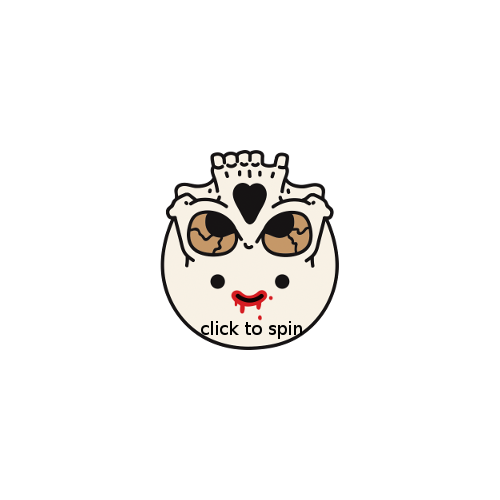
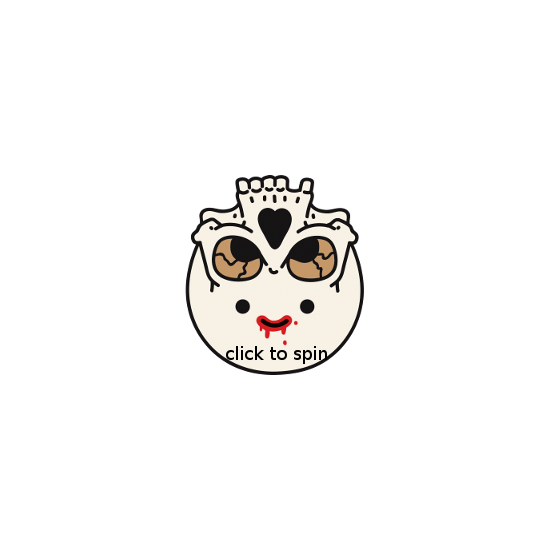
Fixed added segment colors, resized background image for wheel

Changed region(s): [[0.3, 0.3, 0.69, 0.72]]

diff --git a/src/app/wheel/wheel.component.ts b/src/app/wheel/wheel.component.ts
@@ -174,7 +174,7 @@ export class WheelComponent implements OnInit {
   addOptions(options) : void {
       options.forEach(option => {
         option.selected = true;
-        switch(option.spice) {
+        switch(option.level) {
             case 1: option.fillStyle = '#1d5d1d'; break;
             case 2: option.fillStyle = '#ea9904'; break;
             case 3: option.fillStyle = '#e02626'; break;
@@ -192,7 +192,7 @@ export class WheelComponent implements OnInit {
          option.selected = false;
       } else {
          option.selected = true;
-         switch(option.spice) {
+         switch(option.level) {
              case 1: option.fillStyle = '#1d5d1d'; break;
              case 2: option.fillStyle = '#ea9904'; break;
              case 3: option.fillStyle = '#e02626'; break;
@@ -285,11 +285,11 @@ export class WheelComponent implements OnInit {
     //   this.init = true;
       this.wheel = new Winwheel({
          'numSegments'       : this.wheelSegments.length,         // Specify number of segments.
-         'outerRadius'       : 250,       // Set outer radius so wheel fits inside the background.
+         'outerRadius'       : 275,       // Set outer radius so wheel fits inside the background.
          'innerRadius' : 100,
          'drawMode'          : 'code',   // drawMode must be set to image.
          'drawText'          : true,      // Need to set this true if want code-drawn text on image wheels.
-         'textFontSize'      : 16,        // Set text options as desired.
+         'textFontSize'      : 12,        // Set text options as desired.
          'textOrientation'   : 'horizontal',
         //  'textDirection'     : 'reversed',
          'textAlignment'     : 'outer',

diff --git a/src/app/wheel/wheel.component.html b/src/app/wheel/wheel.component.html
@@ -181,7 +181,7 @@
             <!-- WHEEL SECTION -->
             <div class="wheel col-md-6 offset-md-4 spacer" style="height: 50vh; margin-top: 4.5em; margin-bottom: 4.5em;">
                <div class="the_wheel">
-                   <canvas id="canvas" width="500" height="500" (click)="reset(); spin();"  >
+                   <canvas id="canvas" width="550" height="550" (click)="reset(); spin();"  >
                        <p style="{color: white}" align="center">Sorry, your browser doesn't support canvas. Please try another.</p>
                    </canvas>
                </div>

diff --git a/server/server.js b/server/server.js
@@ -11,7 +11,7 @@ var Location  = require('./schemas/LocationSchema');
 
 // Get our API routes
 // const api = require('./server/routes/api');
-// OSCAR POINT  Correct - 11 Missed - 7 
+// OSCAR POINT  Correct - 17 Missed - 7 
 const app = express();
 
 mongoose.connect('mongodb://localhost/wheel');
